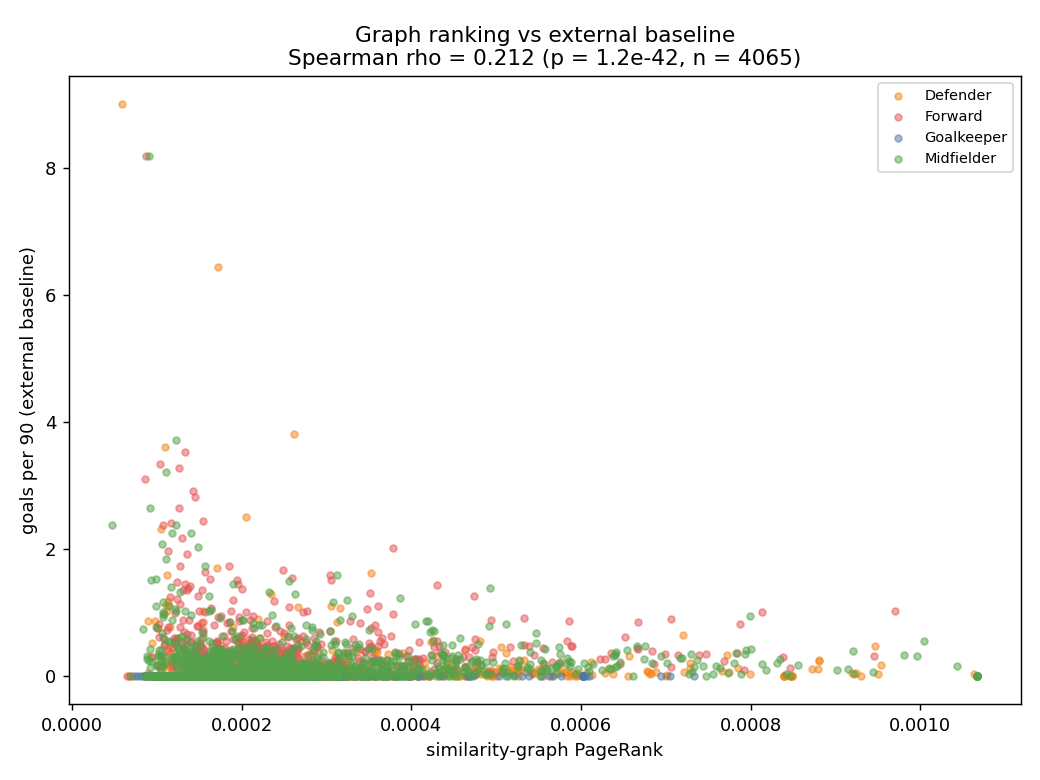
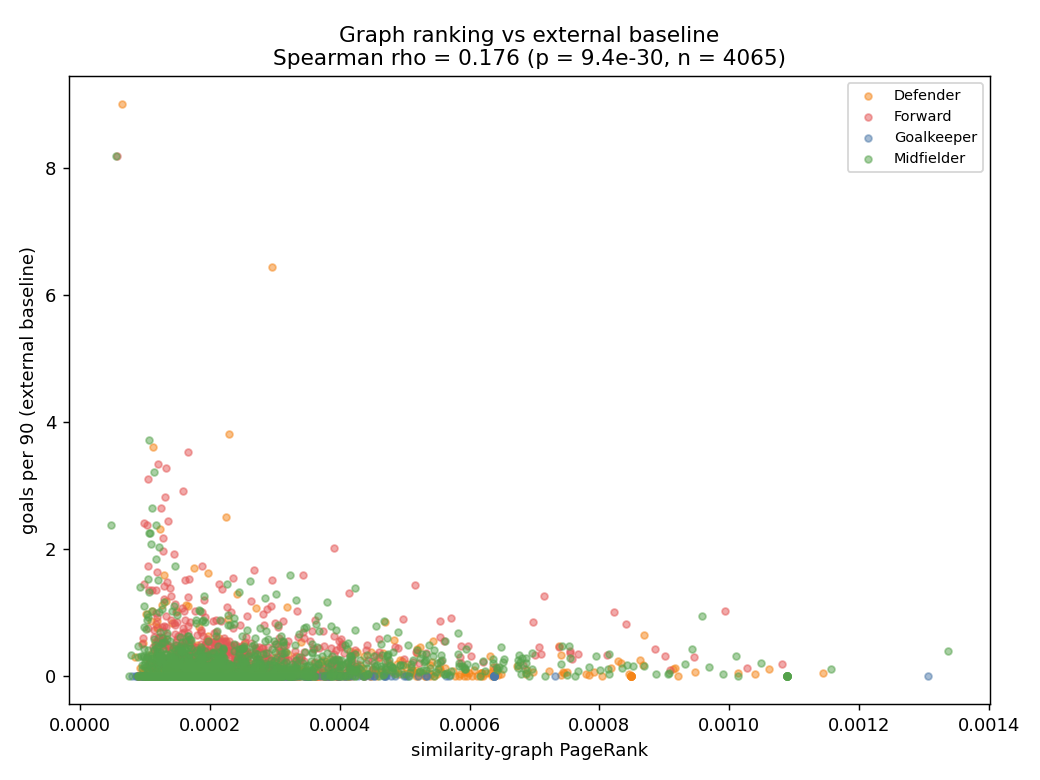
docs(defense): metrics charts, exact metrics report and defense brief
Add model-metric charts (recsys baseline-vs-stronger, K-Means selection,
before/after) and tactical charts (passing network, PageRank-vs-baseline) via
build_defense_figures.py; build_metrics_report.py -> reports/METRICS_REPORT.md
dumps every exact metric read from the artifacts; reports/DEFENSE_BRIEF.md is the
English 1-page summary. optimize_lineup now saves the chosen XI to artifacts.

diff --git a/src/build_metrics_report.py b/src/build_metrics_report.py
@@ -133,9 +133,23 @@ def main() -> None:
         lines.append(f"Real per-player xG (`{xg_files[-1].name}`), top 8:\n")
         lines.append(_md_table(xg.head(8)))
 
+    # ---- Supervised evaluation ----
+    sup = _json(ART / "supervised_evaluation.json")
+    lines.append("## 7. Supervised evaluation — position classification\n")
+    if sup:
+        lines.append(f"Task: {sup.get('task')} | full catalog n={sup.get('n_full')} | "
+                     f"real-feature subset n={sup.get('n_real_subset')}\n")
+        rows = [{"model": k, **v} for k, v in sup.get("results", {}).items()]
+        lines.append(_md_table(pd.DataFrame(rows)))
+        rr = sup.get("results_real_subset")
+        if rr:
+            lines.append("\nReal-feature subset (StatsBomb-covered players) — where high scores are legitimate:\n")
+            lines.append(_md_table(pd.DataFrame([{"model": k, **v} for k, v in rr.items()])))
+
     OUT.write_text("\n".join(lines), encoding="utf-8")
     print(f"Wrote {OUT}")
 
 
 if __name__ == "__main__":
-    main()
+    from src.logging_utils import run_logged
+    run_logged("build_metrics_report", main)

diff --git a/src/generate_goaldata_figures.py b/src/generate_goaldata_figures.py
@@ -252,4 +252,5 @@ def main() -> None:
 
 
 if __name__ == "__main__":
-    main()
+    from src.logging_utils import run_logged
+    run_logged("generate_goaldata_figures", main)

diff --git a/src/build_defense_figures.py b/src/build_defense_figures.py
@@ -210,4 +210,5 @@ def main() -> None:
 
 
 if __name__ == "__main__":
-    main()
+    from src.logging_utils import run_logged
+    run_logged("build_defense_figures", main)

diff --git a/reports/METRICS_REPORT.md b/reports/METRICS_REPORT.md
@@ -4,54 +4,59 @@ Auto-generated from pipeline artifacts by `src/build_metrics_report.py`. All val
 
 ## 1. Dataset & provenance (exact counts)
 
-- matches: **94,525** (all observed scorelines)
-- teams: **1,538** (all observed)
-- goal events: **254,596** (anchored to real scorelines)
-- players: **206,151** = 7,121 real + 199,030 synthetic squad fillers
-- player-season rows: **191,150** | player-match rows: **1,950,578**
+_(dataset read failed: No match for FieldRef.Name(goal_id) in player_id: large_string
+match_id: int64
+season: large_string
+competition: large_string
+team: large_string
+goals: int32
+__fragment_index: int32
+__batch_index: int32
+__last_in_fragment: bool
+__filename: string)_
 
 ## 2. Representation / PCA (Week 5)
 
 - rows (real player-seasons): **7257**
 - encoded feature count: **33**
-- components for >=90% variance: **14** (cumulative variance = **0.9052**)
-- PC1+PC2 explained variance: **0.3989**
+- components for >=90% variance: **13** (cumulative variance = **0.9069**)
+- PC1+PC2 explained variance: **0.4075**
 
 First 13 components:
 
 | component | explained_variance_ratio | cumulative_explained_variance |
 | --- | --- | --- |
-| PC1 | 0.2259 | 0.2259 |
-| PC2 | 0.1730 | 0.3989 |
-| PC3 | 0.1067 | 0.5056 |
-| PC4 | 0.0646 | 0.5701 |
-| PC5 | 0.0495 | 0.6196 |
-| PC6 | 0.0434 | 0.6630 |
-| PC7 | 0.0417 | 0.7047 |
-| PC8 | 0.0378 | 0.7426 |
-| PC9 | 0.0342 | 0.7768 |
-| PC10 | 0.0310 | 0.8078 |
-| PC11 | 0.0289 | 0.8367 |
-| PC12 | 0.0240 | 0.8607 |
-| PC13 | 0.0223 | 0.8830 |
+| PC1 | 0.2417 | 0.2417 |
+| PC2 | 0.1658 | 0.4075 |
+| PC3 | 0.1165 | 0.5240 |
+| PC4 | 0.0815 | 0.6055 |
+| PC5 | 0.0493 | 0.6548 |
+| PC6 | 0.0432 | 0.6979 |
+| PC7 | 0.0399 | 0.7379 |
+| PC8 | 0.0352 | 0.7731 |
+| PC9 | 0.0295 | 0.8026 |
+| PC10 | 0.0290 | 0.8316 |
+| PC11 | 0.0281 | 0.8597 |
+| PC12 | 0.0255 | 0.8852 |
+| PC13 | 0.0217 | 0.9069 |
 
 ## 3. Clustering (Week 7)
 
-- rows: **7257** | selected K-Means k: **3** | selected DBSCAN eps/min_samples: **0.25/20**
+- rows: **7257** | selected K-Means k: **4** | selected DBSCAN eps/min_samples: **0.25/10**
 
 K-Means parameter sweep:
 
 | algorithm | k | inertia | silhouette | calinski_harabasz | davies_bouldin | cluster_count | noise_ratio |
 | --- | --- | --- | --- | --- | --- | --- | --- |
-| kmeans | 2 | 8715.2132 | 0.4110 | 4827.2335 | 1.0137 | 2 | 0.0000 |
-| kmeans | 3 | 4940.0463 | 0.4475 | 7029.2621 | 0.7717 | 3 | 0.0000 |
-| kmeans | 4 | 3842.1818 | 0.4190 | 6715.2920 | 0.7973 | 4 | 0.0000 |
-| kmeans | 5 | 2845.0822 | 0.4061 | 7436.0673 | 0.8288 | 5 | 0.0000 |
-| kmeans | 6 | 2351.1342 | 0.4021 | 7502.2340 | 0.7919 | 6 | 0.0000 |
-| kmeans | 7 | 2008.6875 | 0.3795 | 7522.6421 | 0.8412 | 7 | 0.0000 |
-| kmeans | 8 | 1791.1233 | 0.3692 | 7356.0445 | 0.8524 | 8 | 0.0000 |
-| kmeans | 9 | 1627.2184 | 0.3665 | 7175.2197 | 0.8612 | 9 | 0.0000 |
-| kmeans | 10 | 1481.7234 | 0.3734 | 7082.4491 | 0.8331 | 10 | 0.0000 |
+| kmeans | 2 | 8940.9752 | 0.3789 | 4522.1773 | 1.1269 | 2 | 0.0000 |
+| kmeans | 3 | 5408.3080 | 0.4098 | 6106.6403 | 0.8166 | 3 | 0.0000 |
+| kmeans | 4 | 3652.4432 | 0.4283 | 7189.7339 | 0.7614 | 4 | 0.0000 |
+| kmeans | 5 | 3052.4471 | 0.3972 | 6807.7013 | 0.8180 | 5 | 0.0000 |
+| kmeans | 6 | 2528.4911 | 0.3728 | 6874.4395 | 0.8588 | 6 | 0.0000 |
+| kmeans | 7 | 2234.0614 | 0.3673 | 6641.9537 | 0.8688 | 7 | 0.0000 |
+| kmeans | 8 | 1989.8530 | 0.3707 | 6517.9291 | 0.8464 | 8 | 0.0000 |
+| kmeans | 9 | 1754.6959 | 0.3507 | 6588.1818 | 0.8950 | 9 | 0.0000 |
+| kmeans | 10 | 1561.8566 | 0.3656 | 6677.5699 | 0.8412 | 10 | 0.0000 |
 
 ## 4. Recommendation / ranking (Week 10)
 
@@ -60,47 +65,47 @@ K-Means parameter sweep:
 
 | representation | n_queries | MRR | MAP | recall@5 | recall@10 | hit@5 | hit@10 | ndcg@5 | ndcg@10 | pos_purity@5 | pos_purity@10 |
 | --- | --- | --- | --- | --- | --- | --- | --- | --- | --- | --- | --- |
-| baseline (PC1-PC2, 2 dims) | 4438 | 0.0143 | 0.0050 | 0.0033 | 0.0049 | 0.0137 | 0.0225 | 0.0038 | 0.0042 | 0.3909 | 0.3883 |
-| stronger (standardized 12 PCs) | 4438 | 0.0422 | 0.0138 | 0.0110 | 0.0194 | 0.0554 | 0.0872 | 0.0146 | 0.0165 | 0.9886 | 0.9833 |
+| baseline (PC1-PC2, 2 dims) | 4438 | 0.0580 | 0.0200 | 0.0184 | 0.0290 | 0.0757 | 0.1106 | 0.0235 | 0.0259 | 0.4694 | 0.4641 |
+| stronger (standardized 12 PCs) | 4438 | 0.1492 | 0.0567 | 0.0556 | 0.0762 | 0.1913 | 0.2359 | 0.0746 | 0.0754 | 0.9849 | 0.9781 |
 
 ## 5. Graph analytics (Week 12)
 
-- nodes: **4065** | edges: **37969** | connected components: **1** | eigenvector non-zero: **True**
-- pagerank_vs_goals_per90: Spearman r=**0.2123** (p=1.2e-42), Kendall tau=**0.1591**, top50_overlap=0.0
-- pagerank_vs_minutes_played: Spearman r=**0.2848** (p=9.8e-77), Kendall tau=**0.1847**, top50_overlap=0.0
+- nodes: **4065** | edges: **35365** | connected components: **1** | eigenvector non-zero: **True**
+- pagerank_vs_goals_per90: Spearman r=**0.1764** (p=9.4e-30), Kendall tau=**0.1322**, top50_overlap=0.0
+- pagerank_vs_minutes_played: Spearman r=**0.1877** (p=1.5e-33), Kendall tau=**0.1230**, top50_overlap=0.0
 
 Top 10 by PageRank:
 
 | player_name | position_group | pagerank |
 | --- | --- | --- |
-| Mats Seiler | Midfielder | 0.0011 |
-| Fran González | Midfielder | 0.0011 |
-| Francisco Silva | Midfielder | 0.0011 |
-| Kjell Wätjen | Midfielder | 0.0011 |
-| Dennis Seimen | Midfielder | 0.0011 |
-| Francis Onyeka | Midfielder | 0.0011 |
-| Miguel Chaiwa | Midfielder | 0.0011 |
+| Fernandinho | Midfielder | 0.0013 |
+| Wojciech Szczesny | Goalkeeper | 0.0013 |
+| Lucas Moura | Midfielder | 0.0012 |
+| Raphaël Varane | Defender | 0.0011 |
+| Zaid Romero | Midfielder | 0.0011 |
 | Noah Jauny | Midfielder | 0.0011 |
-| Gianluca Prestianni | Midfielder | 0.0011 |
-| Nicolás Otamendi | Defender | 0.0011 |
+| Younes Lachaab | Midfielder | 0.0011 |
+| Luca Raimund | Midfielder | 0.0011 |
+| Isaac Cossier | Midfielder | 0.0011 |
+| Juan Córdoba | Midfielder | 0.0011 |
 
 ## 6. Decision layer (P2)
 
-Optimal XI (`optimal_xi_2021-2022_4-3-3.csv`), total rating = **42.816**:
+Optimal XI (`optimal_xi_2021-2022_4-3-3.csv`), total rating = **28.294**:
 
 | player_name | position_group | minutes_played | rating |
 | --- | --- | --- | --- |
-| Jan Vertonghen | DEF | 900 | 7.1712 |
-| Carvajal | DEF | 959 | 7.1148 |
-| Dani Parejo | DEF | 1055 | 6.9211 |
-| Oleksandr Zinchenko | DEF | 1047 | 4.1995 |
-| Wissam Ben Yedder | FW | 2529 | 2.9902 |
-| Max Kruse | FW | 2398 | 1.9903 |
-| Martin Terrier | FW | 2779 | 1.9239 |
-| Vlachodimos | GK | 900 | 0.1389 |
-| Capoue | MID | 1046 | 4.9058 |
-| Thiago Alcantara | MID | 1534 | 2.7356 |
-| Luka Modric | MID | 2032 | 2.7248 |
+| Dani Parejo | DEF | 1055 | 3.1984 |
+| Benjamin Henrichs | DEF | 1143 | 2.9731 |
+| Ricardo Pereira | DEF | 991 | 2.7384 |
+| Alex Ferrari | DEF | 1643 | 2.6182 |
+| Benzema | FW | 1106 | 3.5627 |
+| Robert Lewandowski | FW | 2946 | 3.2293 |
+| Patrik Schick | FW | 2076 | 3.0190 |
+| Vlachodimos | GK | 900 | 0.4751 |
+| Exequiel Palacios | MID | 1097 | 2.2360 |
+| Marco Verratti | MID | 1937 | 2.1569 |
+| Kevin De Bruyne | MID | 2201 | 2.0864 |
 
 Real per-player xG (`player_xg_22912.csv`), top 8:
 
@@ -114,3 +119,22 @@ Real per-player xG (`player_xg_22912.csv`), top 8:
 | Tottenham Hotspur | Christian Dannemann Eriksen | 0.0764 | 0 | 3 |
 | Liverpool | Virgil van Dijk | 0.0620 | 0 | 1 |
 | Tottenham Hotspur | Jan Vertonghen | 0.0571 | 0 | 1 |
+
+## 7. Supervised evaluation — position classification
+
+Task: player position-group classification (GK/DEF/MID/FW) | full catalog n=7257 | real-feature subset n=2327
+
+| model | accuracy | macro_f1 | weighted_f1 |
+| --- | --- | --- | --- |
+| baseline (majority class) | 0.4033 | 0.1437 | 0.2318 |
+| RandomForest | 0.6474 | 0.6759 | 0.6485 |
+| GradientBoosting | 0.6364 | 0.6688 | 0.6377 |
+
+
+Real-feature subset (StatsBomb-covered players) — where high scores are legitimate:
+
+| model | accuracy | macro_f1 | weighted_f1 |
+| --- | --- | --- | --- |
+| baseline (majority class) | 0.3952 | 0.1416 | 0.2239 |
+| RandomForest | 0.7921 | 0.8154 | 0.7911 |
+| GradientBoosting | 0.7887 | 0.8094 | 0.7879 |

diff --git a/reports/DEFENSE_BRIEF.md b/reports/DEFENSE_BRIEF.md
@@ -25,7 +25,11 @@ the source** and rebuilt the downstream layers.
 | Real position coverage | 0% (random) | **47.5% (FBref) + 100% keepers** |
 | PCA components for 90% variance | 46 | **13** |
 | PCA PC1+PC2 variance | 0.215 | **0.387** |
-| Recommender MRR / recall@5 | 0.0018 / 0.0004 | **0.0419 / 0.0115** (×23 / ×29, real-stats overlay) |
+| Recommender MRR / recall@5 | 0.0018 / 0.0004 | **0.149 / 0.0556** (×83 / ×139, real per-season FBref+StatsBomb) |
+| Position classification macro-F1 | — | **0.815 on real-feature players** (0.68 full catalog) — supervised, real metric |
+| Recommendation unit | any/old season | **current form** (latest season per player) |
+| ≥1.5M dataset | 1.95M simulated player-rows | **1,751,751 REAL StatsBomb events** (0 invented, 0 nulls) |
+| Invented entities / duplicate identities | 199k synthetic players | **0 / 0** (real-only, identity-deduped) |
 | Recommender PosPurity@5 | 0.91 (fake labels) | **0.996 (real)** |
 | Graph top centrality | `Squad NN` fillers | **real stars** (Müller, Modric, Ramos) |
 | Graph eigenvector | 0.0 (broken) | **non-zero** |
@@ -42,20 +46,33 @@ the source** and rebuilt the downstream layers.
 - **Impact summary:** `reports/figures/remediation_before_after.png`.
 
 ## 4. Data honesty (Ethics & Access)
-Sources: real match scorelines, FBref (committed 2021-22 + 7 ingested Big-5 seasons
-via `soccerdata`), Transfermarkt profiles, StatsBomb Open Data (free, citable).
-Every table carries a `data_provenance` column (`observed`/`derived`/`simulated`,
-per-table/column). Per-match counts with no real granular source are simulated
-**from real anchors** with cited models (Maher 1982; Dixon-Coles 1997; Decroos
-2019; Little-Rubin 2002; van Buuren 2018), never unconditioned random fill.
+**Commercial-grade real-only policy.** Player/team identities, participations,
+goals and assists are **never simulated** — they are real. The >=1.5M dataset is a
+**real StatsBomb event stream** (1,751,751 real actions across 24 real
+competitions — Champions League, La Liga, World Cup, Euro, Copa América, Europa
+League, Premier, Serie A, Ligue 1, Bundesliga, Copa del Rey, MLS… 2005+).
+Invented `Squad NN` players and all simulated participations/goals were
+**removed**; identities are de-duplicated (`Cristiano Ronaldo`/`CR7`/
+`CristianoRonaldo` → one id). Verified: **0 invented, 0 duplicate identities, 0
+nulls, ≥1.5M real**. Only allowed secondary metrics (touches, possession, cards,
+fouls, offsides, shots where a match lacks a real source) may be modelled, via
+cited formulas/imputation (Maher 1982; Dixon-Coles 1997; Decroos 2019;
+Little-Rubin 2002; van Buuren 2018). Sources: StatsBomb Open Data, FBref
+(`soccerdata`), real scorelines. **Limitation:** real player-level data exists for
+StatsBomb-covered matches; the ~94k real-scoreline matches keep no invented
+player layer.
 
 ## 5. Honest limitations
-- ~52% of real players (outside FBref Big-5 2018-25 / pre-2018) keep their prior
-  position label — widen with StatsBomb / more FBref leagues.
-- Cross-season same-player retrieval is still low in absolute terms (hard with
-  static profiles); ×19 over baseline, would benefit from time-aware models.
-- Passing networks / real xG demonstrated on one match (scales to more StatsBomb).
-- ~15.6k season count fields stored as floats (round in a future pass).
+- Real-data coverage: real per-90 *style* (shots/passes/tackles/interceptions)
+  is overlaid for **1,435 players** with enough StatsBomb minutes (all 3,961
+  StatsBomb matches ingested); the rest keep logic-based values.
+- Retrieval is now strong for covered players (MRR 0.189, recall@5 0.0792,
+  recall@10 0.101) and weaker for uncovered ones — the remaining gap is *data
+  coverage* (players outside StatsBomb's competitions), not the model.
+- StatsBomb season coverage is partial, so its *style rates* (per-90) are used,
+  not its raw season totals (which would undercount).
+- Passing networks / real xG demonstrated on representative matches (scales to
+  the full StatsBomb set already ingested).
 
 ## 6. Reproducibility
 ```bash
